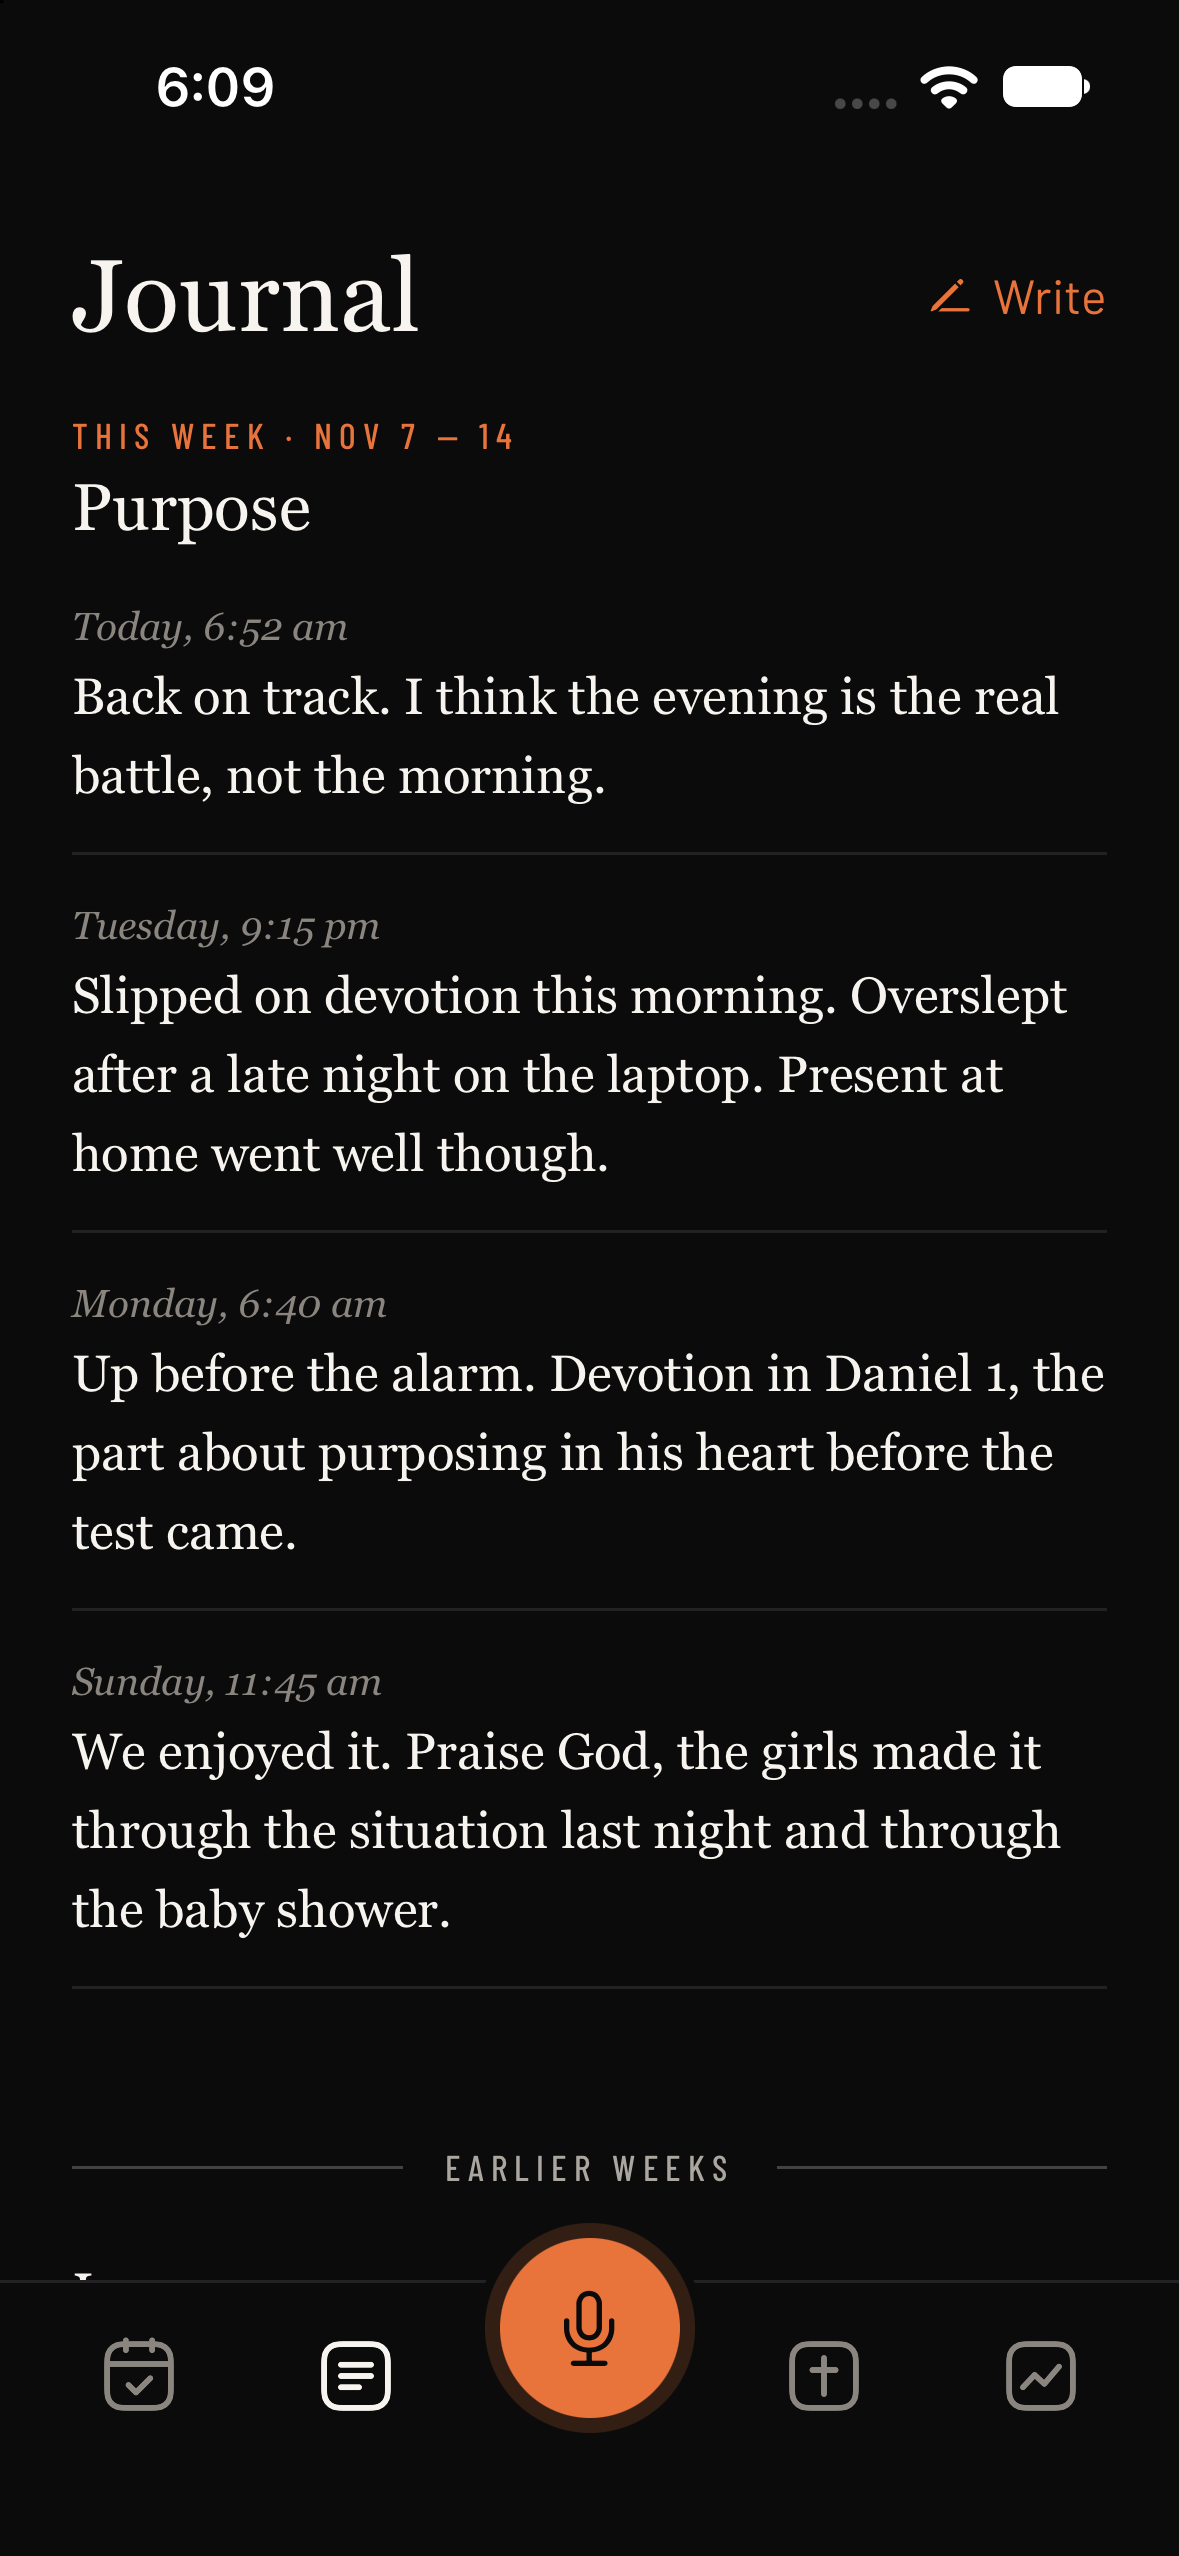
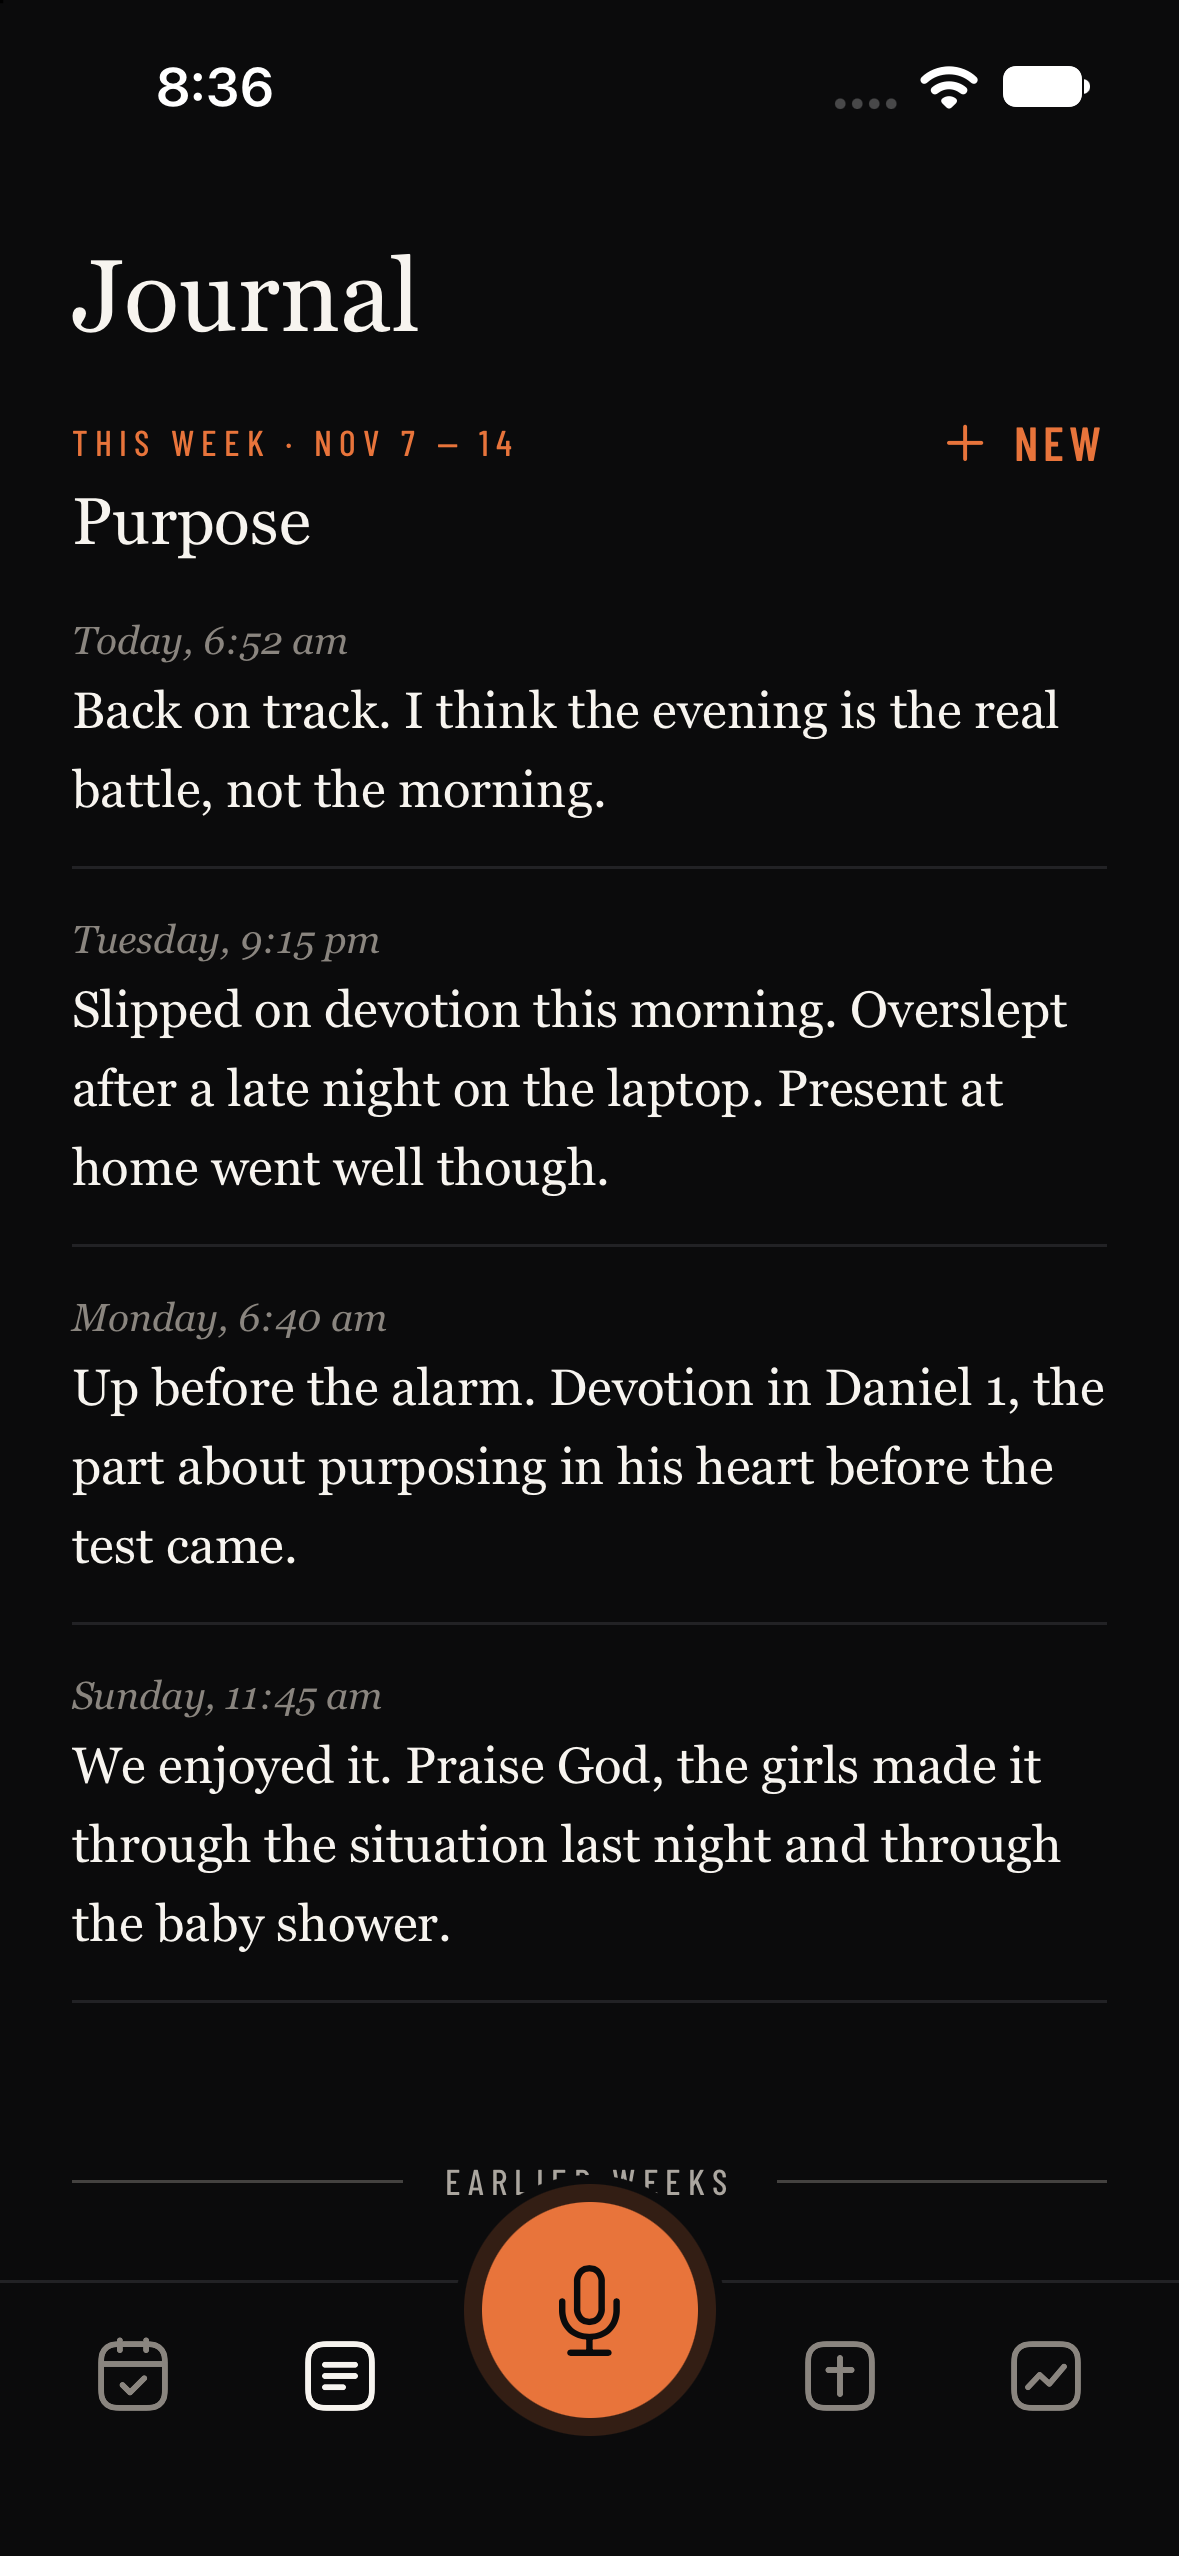
iOS: TestFlight 0.2 (3) uploaded; Journal's add control is the same + NEW as Prayer's

diff --git a/ios/WeeklyDirection/JournalList.swift b/ios/WeeklyDirection/JournalList.swift
@@ -98,17 +98,20 @@ struct JournalList: View {
                 HStack {
                     Text("Journal").font(Theme.jserif(34)).foregroundStyle(Theme.tx)
                     Spacer()
-                    if store.activeWeek != nil {
-                        Button { router.cover = .write } label: {
-                            HStack(spacing: 6) { Image(systemName: "pencil.line").font(.system(size: 14)); Text("Write").jbutton(15) }.foregroundStyle(Theme.ac)
-                        }
-                        .buttonStyle(.plain)
-                    }
                 }
                 RecorderStatus().padding(.top, 10)
                 if let w = store.activeWeek {
                     // this week's focus word leads the page, as large as the earlier weeks' names are small
-                    Eyebrow(text: "This week · \(Fmt.weekRange(w, store.settings))", color: Theme.ac).padding(.top, 20)
+                    // adding an entry looks and sits the same as adding a prayer: "+ NEW" at the right of the section line
+                    HStack {
+                        Eyebrow(text: "This week · \(Fmt.weekRange(w, store.settings))", color: Theme.ac)
+                        Spacer()
+                        Button { router.cover = .write } label: {
+                            HStack(spacing: 8) { Image(systemName: "plus").font(.system(size: 15)); Text("New").caps(16) }.foregroundStyle(Theme.ac)
+                        }
+                        .buttonStyle(.plain).accessibilityIdentifier("newEntry")
+                    }
+                    .padding(.top, 20)
                     Text(w.focus).font(Theme.jserif(22)).foregroundStyle(Theme.tx).padding(.top, 4).padding(.bottom, 4)
                     let ents = Array(Journal.entries(w.liveRefl).reversed())
                     // recordings still on the phone hold their place here until they are written down

diff --git a/ios/WeeklyDirection/ReflectView.swift b/ios/WeeklyDirection/ReflectView.swift
@@ -155,7 +155,7 @@ struct WeekPage: View {
             Spacer()
             if active {
                 Button { router.cover = .write } label: {
-                    HStack(spacing: 7) { Image(systemName: "pencil.line").font(.system(size: 15)); Text("Write") }.foregroundStyle(Theme.ac)
+                    HStack(spacing: 8) { Image(systemName: "plus").font(.system(size: 15)); Text("New").caps(16) }.foregroundStyle(Theme.ac)
                 }
             } else {
                 Button("Open week") { vision = true }.foregroundStyle(Theme.mu)

diff --git a/ios/docs/PROGRESS.md b/ios/docs/PROGRESS.md
@@ -1,6 +1,6 @@
 # Weekly Direction iOS — progress log
 
-**Current: 0.2 (2) uploaded to TestFlight Nov 10 (through commit 3e15e3f: widgets, Dynamic Island timer, Dictate control, offline placeholders, small fixes); waiting on Eddie's device test of the extension. `tidy` function (clean-up + rating proposals) NOT deployed: `firebase deploy --only functions:tidy`.** Open: prayer icon pick. Nothing pushed (no git credentials in the Claude shell).
+**Current: 0.2 (3) uploaded to TestFlight Nov 10 (through commit 233be09: sounds, practice mode, black widgets, timer swipe-down). After it, not yet uploaded: Journal's Write is now "+ NEW" like Prayer. `tidy` function NOT deployed: `firebase deploy --only functions:tidy`.** Open: prayer icon pick. Nothing pushed (no git credentials in the Claude shell).
 
 ## Prayers without a full page (Nov 10)
 - A prayer that is only its name opens as a half sheet with "Add to this prayer"; Edit or that line lifts it to the full page. A prayer with text, the life prayer and New still open full height. The list stays plain rows (a text preview line was tried and removed the same day: Eddie wants the list simple).
